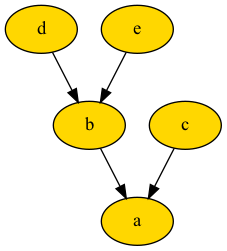
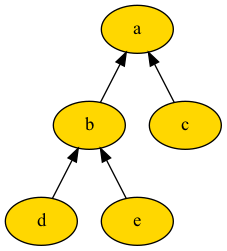
v0.3.1 - add rankdir to dot export

diff --git a/tests/tree/test_export.py b/tests/tree/test_export.py
@@ -695,7 +695,10 @@ class TestTreeToDot:
         expected = """strict digraph G {\na [label=a];\nb [label=b];\nb -> a;\nd [label=d];\nd -> b;\ne [label=e];\ne -> b;\ng [label=g];\ng -> e;\nh [label=h];\nh -> e;\nc [label=c];\nc -> a;\nf [label=f];\nf -> c;\n}\n"""
         actual = graph.to_string()
         graph.write_png("tests/tree.png")
-        assert expected == actual, "Graph string is wrong"
+        for expected_str in expected.split():
+            assert (
+                expected_str in actual
+            ), f"Expected {expected_str} not in actual string"
 
     @staticmethod
     def test_tree_to_dot_type_error(dag_node):
@@ -709,7 +712,10 @@ class TestTreeToDot:
         expected = """strict graph G {\na [label=a];\nb [label=b];\nb -- a;\nd [label=d];\nd -- b;\ne [label=e];\ne -- b;\ng [label=g];\ng -- e;\nh [label=h];\nh -- e;\nc [label=c];\nc -- a;\nf [label=f];\nf -- c;\n}\n"""
         actual = graph.to_string()
         graph.write_png("tests/tree_undirected.png")
-        assert expected == actual, "Graph string is wrong"
+        for expected_str in expected.split():
+            assert (
+                expected_str in actual
+            ), f"Expected {expected_str} not in actual string"
 
     @staticmethod
     def test_tree_to_dot_bg_color(tree_node):
@@ -717,7 +723,10 @@ class TestTreeToDot:
         expected = """strict digraph G {\nbgcolor=blue;\na [label=a];\nb [label=b];\nb -> a;\nd [label=d];\nd -> b;\ne [label=e];\ne -> b;\ng [label=g];\ng -> e;\nh [label=h];\nh -> e;\nc [label=c];\nc -> a;\nf [label=f];\nf -> c;\n}\n"""
         actual = graph.to_string()
         graph.write_png("tests/tree_bg.png")
-        assert expected == actual, "Graph string is wrong"
+        for expected_str in expected.split():
+            assert (
+                expected_str in actual
+            ), f"Expected {expected_str} not in actual string"
 
     @staticmethod
     def test_tree_to_dot_fill_color(tree_node):
@@ -725,7 +734,10 @@ class TestTreeToDot:
         expected = """strict digraph G {\na [fillcolor=gold, label=a, style=filled];\nb [fillcolor=gold, label=b, style=filled];\nb -> a;\nd [fillcolor=gold, label=d, style=filled];\nd -> b;\ne [fillcolor=gold, label=e, style=filled];\ne -> b;\ng [fillcolor=gold, label=g, style=filled];\ng -> e;\nh [fillcolor=gold, label=h, style=filled];\nh -> e;\nc [fillcolor=gold, label=c, style=filled];\nc -> a;\nf [fillcolor=gold, label=f, style=filled];\nf -> c;\n}\n"""
         actual = graph.to_string()
         graph.write_png("tests/tree_fill.png")
-        assert expected == actual, "Graph string is wrong"
+        for expected_str in expected.split():
+            assert (
+                expected_str in actual
+            ), f"Expected {expected_str} not in actual string"
 
     @staticmethod
     def test_tree_to_dot_edge_colour(tree_node):
@@ -733,7 +745,10 @@ class TestTreeToDot:
         expected = """strict digraph G {\na [label=a];\nb [label=b];\nb -> a  [color=red];\nd [label=d];\nd -> b  [color=red];\ne [label=e];\ne -> b  [color=red];\ng [label=g];\ng -> e  [color=red];\nh [label=h];\nh -> e  [color=red];\nc [label=c];\nc -> a  [color=red];\nf [label=f];\nf -> c  [color=red];\n}\n"""
         actual = graph.to_string()
         graph.write_png("tests/tree_edge.png")
-        assert expected == actual, "Graph string is wrong"
+        for expected_str in expected.split():
+            assert (
+                expected_str in actual
+            ), f"Expected {expected_str} not in actual string"
 
     @staticmethod
     def test_tree_to_dot_node_attr(tree_node_style):
@@ -741,4 +756,7 @@ class TestTreeToDot:
         expected = """strict digraph G {\na [fillcolor=gold, label=a, style=filled];\nb [fillcolor=blue, label=b, style=filled];\nb -> a;\nd [fillcolor=green, label=d, style=filled];\nd -> b;\ng [fillcolor=red, label=g, style=filled];\ng -> d;\ne [fillcolor=green, label=e, style=filled];\ne -> b;\nh [fillcolor=red, label=h, style=filled];\nh -> e;\nc [fillcolor=blue, label=c, style=filled];\nc -> a;\nf [fillcolor=green, label=f, style=filled];\nf -> c;\n}\n"""
         actual = graph.to_string()
         graph.write_png("tests/tree_style.png")
-        assert expected == actual, "Graph string is wrong"
+        for expected_str in expected.split():
+            assert (
+                expected_str in actual
+            ), f"Expected {expected_str} not in actual string"

diff --git a/bigtree/tree/export.py b/bigtree/tree/export.py
@@ -568,6 +568,7 @@ def tree_to_nested_dict(
 def tree_to_dot(
     tree: Node,
     directed: bool = True,
+    rankdir: str = "TB",
     bgcolor: str = None,
     node_colour: str = None,
     edge_colour: str = None,
@@ -598,6 +599,7 @@ def tree_to_dot(
     Args:
         tree (Node): tree to be exported
         directed (bool): indicator whether graph should be directed or undirected, defaults to True
+        rankdir (str): set direction of graph layout, defaults to 'TB', can be 'BT, 'LR', 'RL'
         bgcolor (str): background color of image, defaults to None
         node_colour (str): fill colour of nodes, defaults to None
         edge_colour (str): colour of edges, defaults to None
@@ -635,9 +637,13 @@ def tree_to_dot(
     tree = tree.copy()
 
     if directed:
-        _graph = pydot.Dot(graph_type="digraph", strict=True, **graph_style)
+        _graph = pydot.Dot(
+            graph_type="digraph", strict=True, rankdir=rankdir, **graph_style
+        )
     else:
-        _graph = pydot.Dot(graph_type="graph", strict=True, **graph_style)
+        _graph = pydot.Dot(
+            graph_type="graph", strict=True, rankdir=rankdir, **graph_style
+        )
 
     def recursive_create_node_and_edges(parent_name, child_node):
         child_name = child_node.node_name

diff --git a/bigtree/dag/export.py b/bigtree/dag/export.py
@@ -6,6 +6,7 @@ __all__ = ["dag_to_dot"]
 
 def dag_to_dot(
     dag: DAGNode,
+    rankdir: str = "TB",
     bgcolor: str = None,
     node_colour: str = None,
     edge_colour: str = None,
@@ -35,6 +36,7 @@ def dag_to_dot(
 
     Args:
         dag (DAGNode): tree to be exported
+        rankdir (str): set direction of graph layout, defaults to 'TB', can be 'BT, 'LR', 'RL'
         bgcolor (str): background color of image, defaults to None
         node_colour (str): fill colour of nodes, defaults to None
         edge_colour (str): colour of edges, defaults to None
@@ -71,7 +73,9 @@ def dag_to_dot(
 
     dag = dag.copy()
 
-    _graph = pydot.Dot(graph_type="digraph", strict=True, **graph_style)
+    _graph = pydot.Dot(
+        graph_type="digraph", strict=True, rankdir=rankdir, **graph_style
+    )
 
     for parent_node, child_node in dag_iterator(dag):
         parent_name = parent_node.name

diff --git a/bigtree/__init__.py b/bigtree/__init__.py
@@ -1,4 +1,4 @@
-__version__ = "0.3.0"
+__version__ = "0.3.1"
 
 from bigtree.dag.construct import dataframe_to_dag, dict_to_dag, list_to_dag
 from bigtree.dag.export import dag_to_dot

diff --git a/CHANGELOG.md b/CHANGELOG.md
@@ -4,9 +4,13 @@ All notable changes to this project will be documented in this file.
 The format is based on [Keep a Changelog](https://keepachangelog.com/en/1.0.0/),
 and this project adheres to [Semantic Versioning](https://semver.org/spec/v2.0.0.html).
 
-## [Unreleased]
+## Unreleased
 ### Work In Progress
 - Node: WeightedNode for weighted edge tree implementation.
+
+## [0.3.1] - 2022-11-07
+### Added
+- Tree Exporter and DAG Exporter: More customizations for Node to dot and DAGNode to dot.
 
 ## [0.3.0] - 2022-11-05
 ### Added
@@ -31,7 +35,7 @@ and this project adheres to [Semantic Versioning](https://semver.org/spec/v2.0.0
 - Utility Iterators: Tree traversal methods.
 - Workflow To Do App: Tree use case with to-do list implementation.
 
-[Unreleased]: https://github.com/kayjan/bigtree/compare/HEAD...v0.2.0
+[0.3.1]: https://github.com/kayjan/bigtree/compare/v0.3.0...v0.3.1
 [0.3.0]: https://github.com/kayjan/bigtree/compare/v0.2.0...v0.3.0
 [0.2.0]: https://github.com/kayjan/bigtree/compare/v0.1.0...v0.2.0
 [0.1.0]: https://github.com/kayjan/bigtree/releases/tag/v0.1.0

diff --git a/README.md b/README.md
@@ -623,8 +623,8 @@ tree_to_dataframe(
 # 3  /a/b/e    e      b          35
 # 4    /a/c    c      a          60
 
-graph = tree_to_dot(root, node_colour="gold")
-graph.write_png("demo.png")
+graph = tree_to_dot(root, rankdir="BT", node_colour="gold")
+graph.write_png("assets/demo.png")
 ```
 
 ![Sample Tree Output](../../assets/demo.png)
